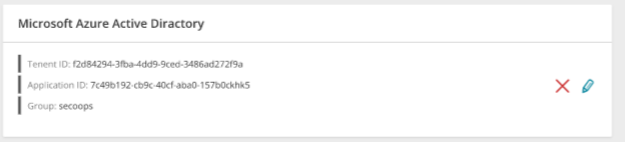
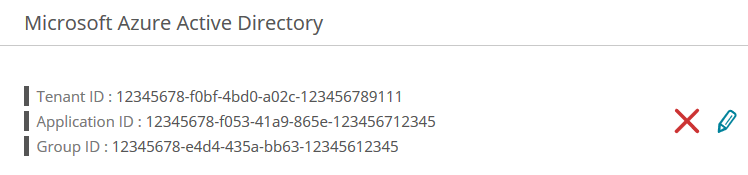
feature / dev / user management

diff --git a/Content/SecureCloud/ActiveDirectory.htm b/Content/SecureCloud/ActiveDirectory.htm
@@ -12,9 +12,9 @@
         </p>
         <p>Once the settings have been configured they will be displayed on the screen and can be changed or deleted as required. </p>
         <p>
-            <img src="../SecureCloud-Images/screen_ActiveDirectory_Configured.png" />
+            <img src="../SecureCloud-Images/screen_ActiveDirectory_Configured.png" class="ThumbnailPopup" />
         </p>
-        <p>A user can <a href="Login.htm">log in</a> to <MadCap:variable name="local.ProductName" /> using their <![CDATA[  ]]><MadCap:variable name="local.Azure" /> <MadCap:variable name="local.ActiveDirectory" /> credentials only after all the appropriate settings have been made in your <MadCap:variable name="local.Azure" /> <MadCap:variable name="local.Domain" /> and in <MadCap:variable name="local.ProductName" />. </p>
+        <p>A user can <a href="Login.htm">log in</a> to <MadCap:variable name="local.ProductName" /> using their   <MadCap:variable name="local.Azure" /> <MadCap:variable name="local.ActiveDirectory" /> credentials only after all the appropriate settings have been made in your <MadCap:variable name="local.Azure" /> <MadCap:variable name="local.Domain" /> and in <MadCap:variable name="local.ProductName" />. </p>
         <p class="SubHead1">How do I set up <MadCap:variable name="local.Azure" /> for SSO to <MadCap:variable name="local.ProductName" />?</p>
         <p class="normal">Set up your <MadCap:variable name="local.Azure" /> account to work with <MadCap:variable name="local.ProductName" /></p>
         <ol>
@@ -48,24 +48,30 @@
             <li>
                 <p class="normal">Enable SSO using <MadCap:variable name="local.Azure" /></p>
             </li>
-            <li>Disable SSO using <MadCap:variable name="local.Azure" /></li>
+            <li>Disable SSO using <MadCap:variable name="local.Azure" /> - click <img src="../PublicCloud-Images/icon_Delete.png" class="noborder" /></li>
         </ul>
-        <p class="h3">Enable SSO using <MadCap:variable name="local.Azure" /></p>
+        <p class="h3"><a name="enable"></a>Enable SSO using <MadCap:variable name="local.Azure" /></p>
         <ol>
             <li>
                 <p>Click on <span class="ScreenObject">Edit</span>. The Azure details window appears.</p>
-                <p>
-                    <img src="../SecureCloud-Images/Window_AzureAD.png" />
-                </p>
             </li>
             <li>
                 <p>Enter the appropriate values, all from your <MadCap:variable name="local.Azure" /> account:</p>
+                <p>
+                    <img src="../SecureCloud-Images/Window_AzureAD.png" class="ThumbnailPopup" />
+                </p>
                 <ul>
                     <li>Tenant ID - <span class="StatusOrValue">Directory (tenant) ID</span> </li>
                     <li>Application ID - <span class="StatusOrValue">Application (client)&#160;ID</span> </li>
                     <li>Application Secret - <span class="StatusOrValue">Client secret value</span> </li>
-                    <li>Group - <span class="StatusOrValue">The object ID of the required group</span> </li>
+                    <li>Group ID- <span class="StatusOrValue">The object ID of the required group</span> </li>
                 </ul>
+            </li>
+            <li>
+                <p>Save the details</p>
+                <p>
+                    <img src="../SecureCloud-Images/screen_ActiveDirectory_Configured.png" class="ThumbnailPopup" />
+                </p>
             </li>
         </ol>
         <MadCap:snippetBlock src="../Resources/TopicTemplates/Collateral/H2_GetHere.flsnp" />

diff --git a/Content/SecureCloud/Dashboard.htm b/Content/SecureCloud/Dashboard.htm
@@ -50,10 +50,10 @@
         </ul>
         <p class="h4">Tag Usage</p>
         <p>The Tag Usage <MadCap:variable name="local.Widget" /> shows the compliance score of your public cloud environment  with respect to usage of tags on your assets. The fewer assets you have without tags, the higher the compliance score. Click on the <MadCap:variable name="local.Widget" /> to display all <a href="CloudTagUsage-by-Asset.htm">assets that  have no tags</a>.</p>
-        <p style="font-weight: bold;">What is meant by Tags</p>
+        <p style="font-weight: normal;">What are Tags?</p>
         <ul>
             <li style="font-weight: normal;">
-                <MadCap:snippetText src="../PublicCloud/WhatIsTags.flsnp" />
+                <MadCap:snippetText src="../PublicCloud/WhatIsTags.flsnp" style="font-weight: normal;" />
             </li>
         </ul>
         <p style="font-weight: bold;">Recommended best practice: </p>
